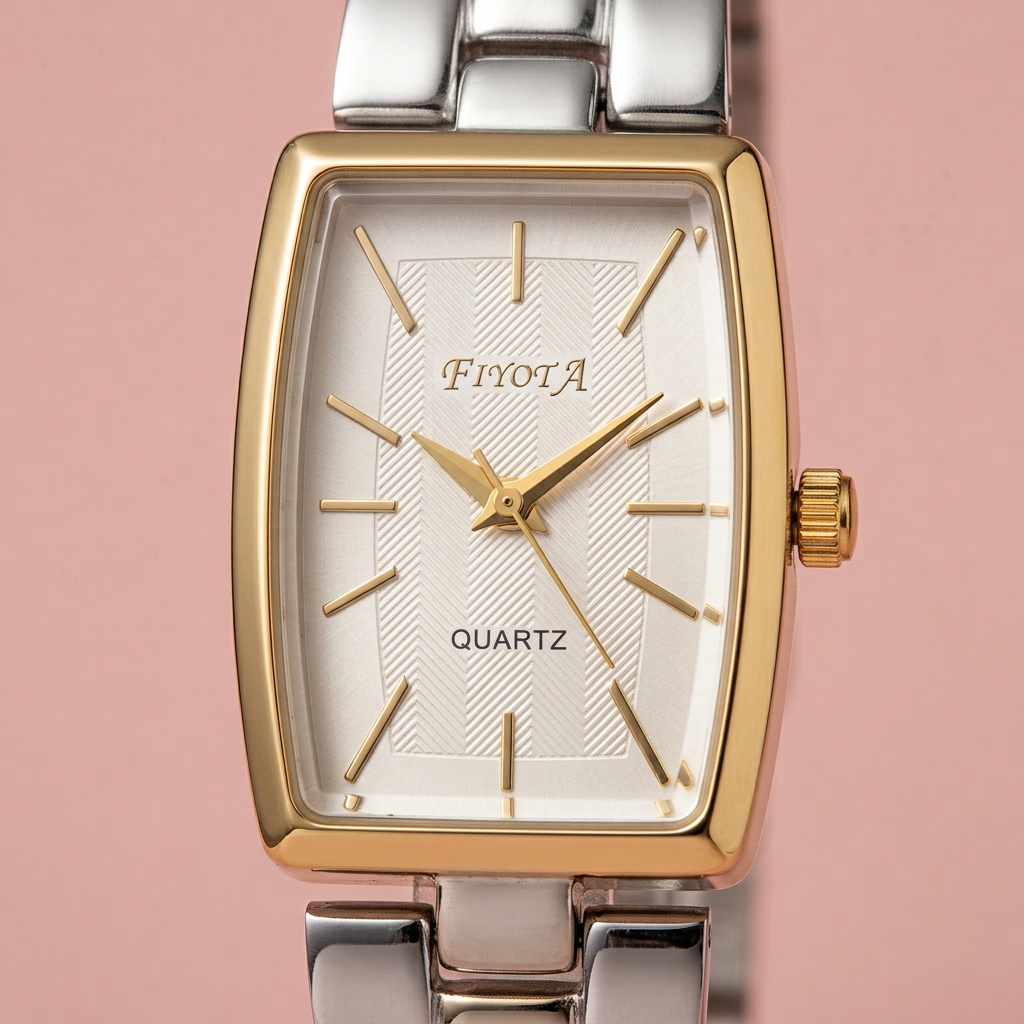
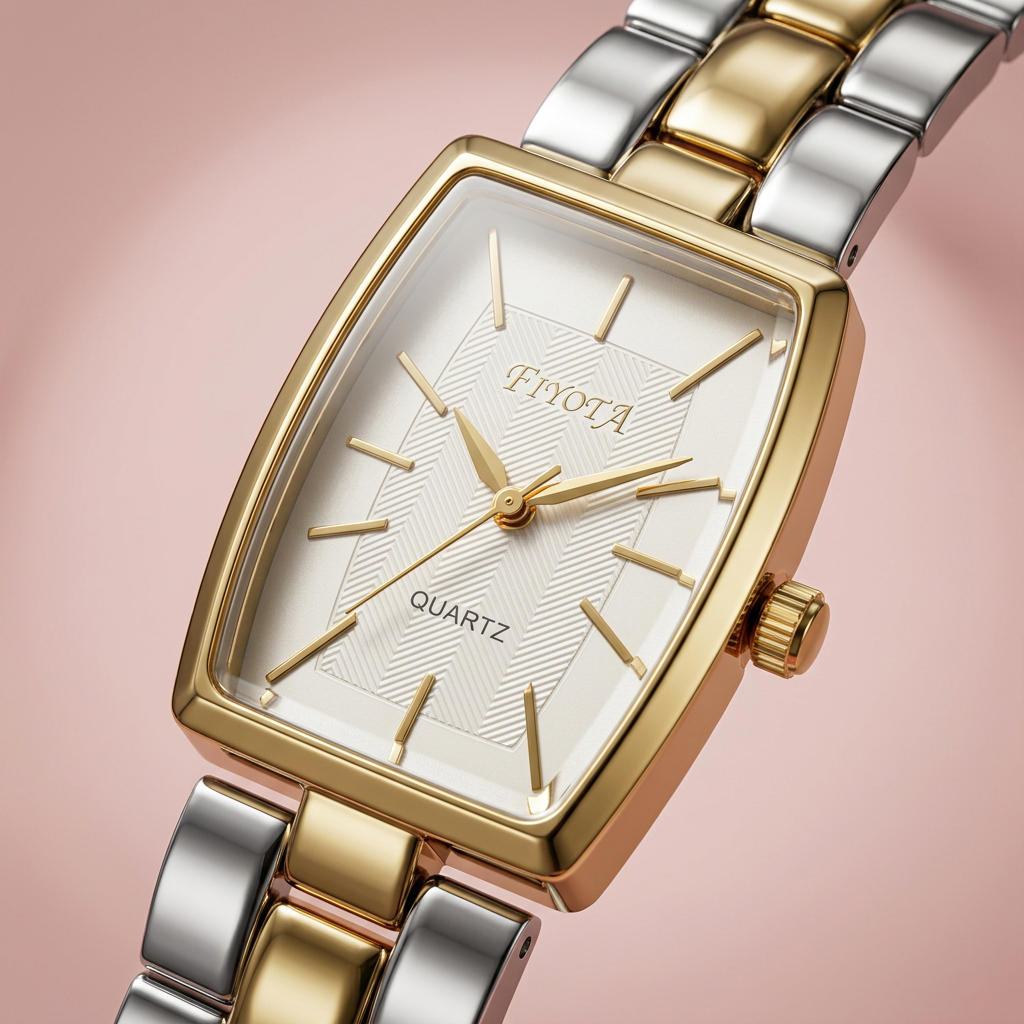
Two-tone fix: bracelet's middle row is gold, outer rows silver
Regenerated the two-tone set (main / wrist / detail) with the bracelet construction the
reference actually shows - a gold centre row between two silver rows - and corrected the
copy: description, spec table, feature bullet and meta description now say the middle row
is gold. Badge re-composited, WebP/JPG and PNG masters refreshed.

Pushed to arena/48ce3008-watch.

diff --git a/docs/product-fiyota-two-tone-tank.md b/docs/product-fiyota-two-tone-tank.md
@@ -17,13 +17,13 @@
 
 ## ২. শর্ট ডেসক্রিপশন (এক লাইন)
 
-সোনালি কেস আর সিলভার ব্রেসলেটের টু-টোন কম্বিনেশন — এক ঘড়িতেই উষ্ণ আর ঠান্ডা ধাতুর ভারসাম্য।
+সোনালি কেস, আর ব্রেসলেটের **মাঝের সারি সোনালি** — দুই পাশে সিলভার; এক ঘড়িতেই উষ্ণ আর ঠান্ডা ধাতুর ভারসাম্য।
 
 ---
 
 ## ৩. বিবরণ (প্রোডাক্ট পেজের মূল লেখা)
 
-সরু, হালকা বাঁকানো ট্যাংক কেস — উষ্ণ সোনালি (গোল্ড-টোন) পলিশড স্টিলে, আর তার সাথে সিলভার স্টেইনলেস স্টিলের তিন সারির ব্রেসলেট। এই টু-টোন মিলটাই ঘড়িটার বিশেষত্ব: সোনালি বেজেল মুখে উষ্ণতা আনে, সিলভার ব্রেসলেট চেহারাটা হালকা ও আধুনিক রাখে — তাই সোনালি গয়নার সাথে যেমন মানায়, তেমনি অফিসের সাদা-কালো পোশাকেও বেমানান লাগে না।
+সরু, হালকা বাঁকানো ট্যাংক কেস — উষ্ণ সোনালি (গোল্ড-টোন) পলিশড স্টিলে। ব্রেসলেটটা তিন সারির: **মাঝের সারির লিংকগুলো সোনালি, দুই পাশের সারি সিলভার** — কব্জিতে তাই একটা সোনালি লাইন নিচে নেমে যায়, দুই পাশে সিলভার। এই টু-টোন মিলটাই ঘড়িটার বিশেষত্ব: সোনালি বেজেল মুখে উষ্ণতা আনে, সিলভার দুই পাশ চেহারাটা হালকা ও আধুনিক রাখে — তাই সোনালি গয়নার সাথে যেমন মানায়, তেমনি অফিসের সাদা-কালো পোশাকেও বেমানান লাগে না।
 
 ভিতরের আইভরি-সাদা ডায়ালে সূক্ষ্ম হেরিংবোন বুনন; সোনালি ব্যাটন ইনডেক্স আর সোনালি ডফিন হাত — ঘণ্টা, মিনিট আর সরু সেকেন্ডের কাটা — ডায়ালকে পরিষ্কার আর পড়তে সহজ রাখে। ১২টায় FIYOTA লোগো, ৬টায় QUARTZ।
 
@@ -39,7 +39,7 @@
 **গ্লাস:** `__` (বাক্সে যা লেখা আছে সেটাই বসাবেন — মিনারেল / স্যাফায়ার)।
 **মুভমেন্ট:** কোয়ার্টজ — ব্যাটারি চালিত, সময় ঠিক রাখতে ঝামেলা নেই।
 **ওয়াটার রেজিস্ট্যান্স:** দৈনন্দিন ব্যবহারের জন্য ওয়াটার রেজিস্ট্যান্ট — হাত ধোয়া, বৃষ্টি, ঘামে সমস্যা হয় না (সাঁতার/ডুব দিতে ব্যবহার করবেন না)।
-**ব্রেসলেট:** সিলভার স্টেইনলেস স্টিল, সলিড-লিংক, তিন সারির H-লিংক ডিজাইন, ক্ল্যাস্পের দিকে সরু।
+**ব্রেসলেট:** তিন সারির H-লিংক — **মাঝের সারি গোল্ড-টোন, দুই পাশের সারি সিলভার স্টেইনলেস স্টিল**, সলিড-লিংক, ক্ল্যাস্পের দিকে সরু। সোনালি মিডল লাইনটা পুরো ব্রেসলেট জুড়ে একটানা থাকে।
 **ক্ল্যাস্প:** বাটারফ্লাই ডিপ্লয়েন্ট লক — দুই দিক থেকে ভাঁজ হয়ে বন্ধ হয়, কব্জিতে সমানভাবে বসে।
 **কালার গ্যারান্টি:** ব্রেসলেটের কালার গ্যারান্টেড — রঙ ওঠে না, ফ্যাকাশে হয় না।
 **রিপ্লেসমেন্ট:** ডেলিভারির পর ৭ দিনের রিপ্লেসমেন্ট সুবিধা।
@@ -53,7 +53,7 @@
 
 ## ৫. ফিচার বুলেট (কার্ডে/পেজে দেখানোর জন্য)
 
-- টু-টোন ডিজাইন — সোনালি কেস, সিলভার স্টিল ব্রেসলেট
+- টু-টোন ডিজাইন — সোনালি কেস, ব্রেসলেটের মাঝের সারি সোনালি ও দুই পাশে সিলভার
 - আইভরি ডায়ালে হেরিংবোন বুনন, সোনালি ইনডেক্স ও হাত
 - তিন হাত — ঘণ্টা, মিনিট ও সেকেন্ডের কাটা
 - বাটারফ্লাই লক — সমানভাবে বন্ধ হয়, কব্জিতে আটকায় না
@@ -65,7 +65,7 @@
 ## ৬. মেটা / সার্চের জন্য ছোট লেখা
 
 **Title:** FIYOTA Two-Tone — সোনালি কেসে সিলভার ব্রেসলেটের মেয়েদের ট্যাংক ঘড়ি
-**Meta description:** FIYOTA টু-টোন ট্যাংক ঘড়ি — গোল্ড-টোন কেস, সিলভার স্টিল ব্রেসলেট, আইভরি হেরিংবোন ডায়াল, বাটারফ্লাই লক, ওয়াটার রেজিস্ট্যান্ট, চেইন কালার গ্যারান্টি, ৭ দিন রিপ্লেসমেন্ট ও ৬ মাস ওয়ারেন্টি।
+**Meta description:** FIYOTA টু-টোন ট্যাংক ঘড়ি — গোল্ড-টোন কেস, মাঝের সারি সোনালি ও দুই পাশে সিলভার ব্রেসলেট, আইভরি হেরিংবোন ডায়াল, বাটারফ্লাই লক, ওয়াটার রেজিস্ট্যান্ট, চেইন কালার গ্যারান্টি, ৭ দিন রিপ্লেসমেন্ট ও ৬ মাস ওয়ারেন্টি।
 
 ---
 

diff --git a/docs/watch-photo-playbook.md b/docs/watch-photo-playbook.md
@@ -187,8 +187,9 @@ No text, no logo, no watermark, no skin, no props. Not CGI, natural colour grade
 - ফিচার: বাটারফ্লাই লক · ওয়াটার রেজিস্ট্যান্ট · চেইন কালার গ্যারান্টি · ৭ দিন রিপ্লেসমেন্ট · ৬ মাস ওয়ারেন্টি
 - ক্যাপশন ভাষা: **বাংলা** ("বাটারফ্লাই লক") — মেইন ছবিতে
 - ⚠ শটে ফোনের রিফ্লেকশন থাকা চলবে না (ভাইয়ার এক্সপ্লিসিট নির্দেশ)
-- ৩য় ভার্সন (টু-টোন: গোল্ড কেস + সিলভার ব্রেসলেট): `public/watches/fiyota-two-tone-tank/` · কপি `docs/product-fiyota-two-tone-tank.md`
+- ৩য় ভার্সন (টু-টোন: গোল্ড কেস + **ব্রেসলেটের মাঝের সারি গোল্ড, দুই পাশে সিলভার**): `public/watches/fiyota-two-tone-tank/` · কপি `docs/product-fiyota-two-tone-tank.md`
 - ২য় ভার্সন (সোনালি/গোল্ড-টোন): `public/watches/fiyota-gold-tank/` · কপি `docs/product-fiyota-gold-tank.md` · লকের কাটআউট গোল্ড টোনে (`--tone gold`) — সেটে ম্যাচ করার জন্য
+- ব্রেসলেটের গঠন ছবি দেখে মিলিয়ে নিতে হবে: টু-টোনে মাঝের সারি সোনালি — পুরো ব্রেসলেট সিলভার করে ফেললে ভুল (ভাইয়ার ধরা পড়েছে)
 - রিস্ট শটে **মহিলা হাত** হতে হবে (স্মুথ, লোমহীন) — ভুল হলে রিজেনারেট করব
 - ⚠ ঘড়িতে **তিনটে হাত** — ঘণ্টা (১০), মিনিট (২), আর **সেকেন্ডের কাটা** (~৭টার দিকে / ৩৫ সেকেন্ড), সেকেন্ডের কাটা সরু নিডল + উল্টো দিকে ছোট কাউন্টারওয়েট। প্রম্পটে প্রতিবার এটা এক্সপ্লিসিট লিখতে হবে, নাহয় মডেল সেকেন্ডের কাটা বাদ দেয় (ভাইয়ার ধরা পড়েছে)
 - বাটারফ্লাই লকের ছবি: ✅ পাওয়া গেছে → `assets/lock/butterfly-lock-source.png`, কাটআউট `public/lock/`-এ
